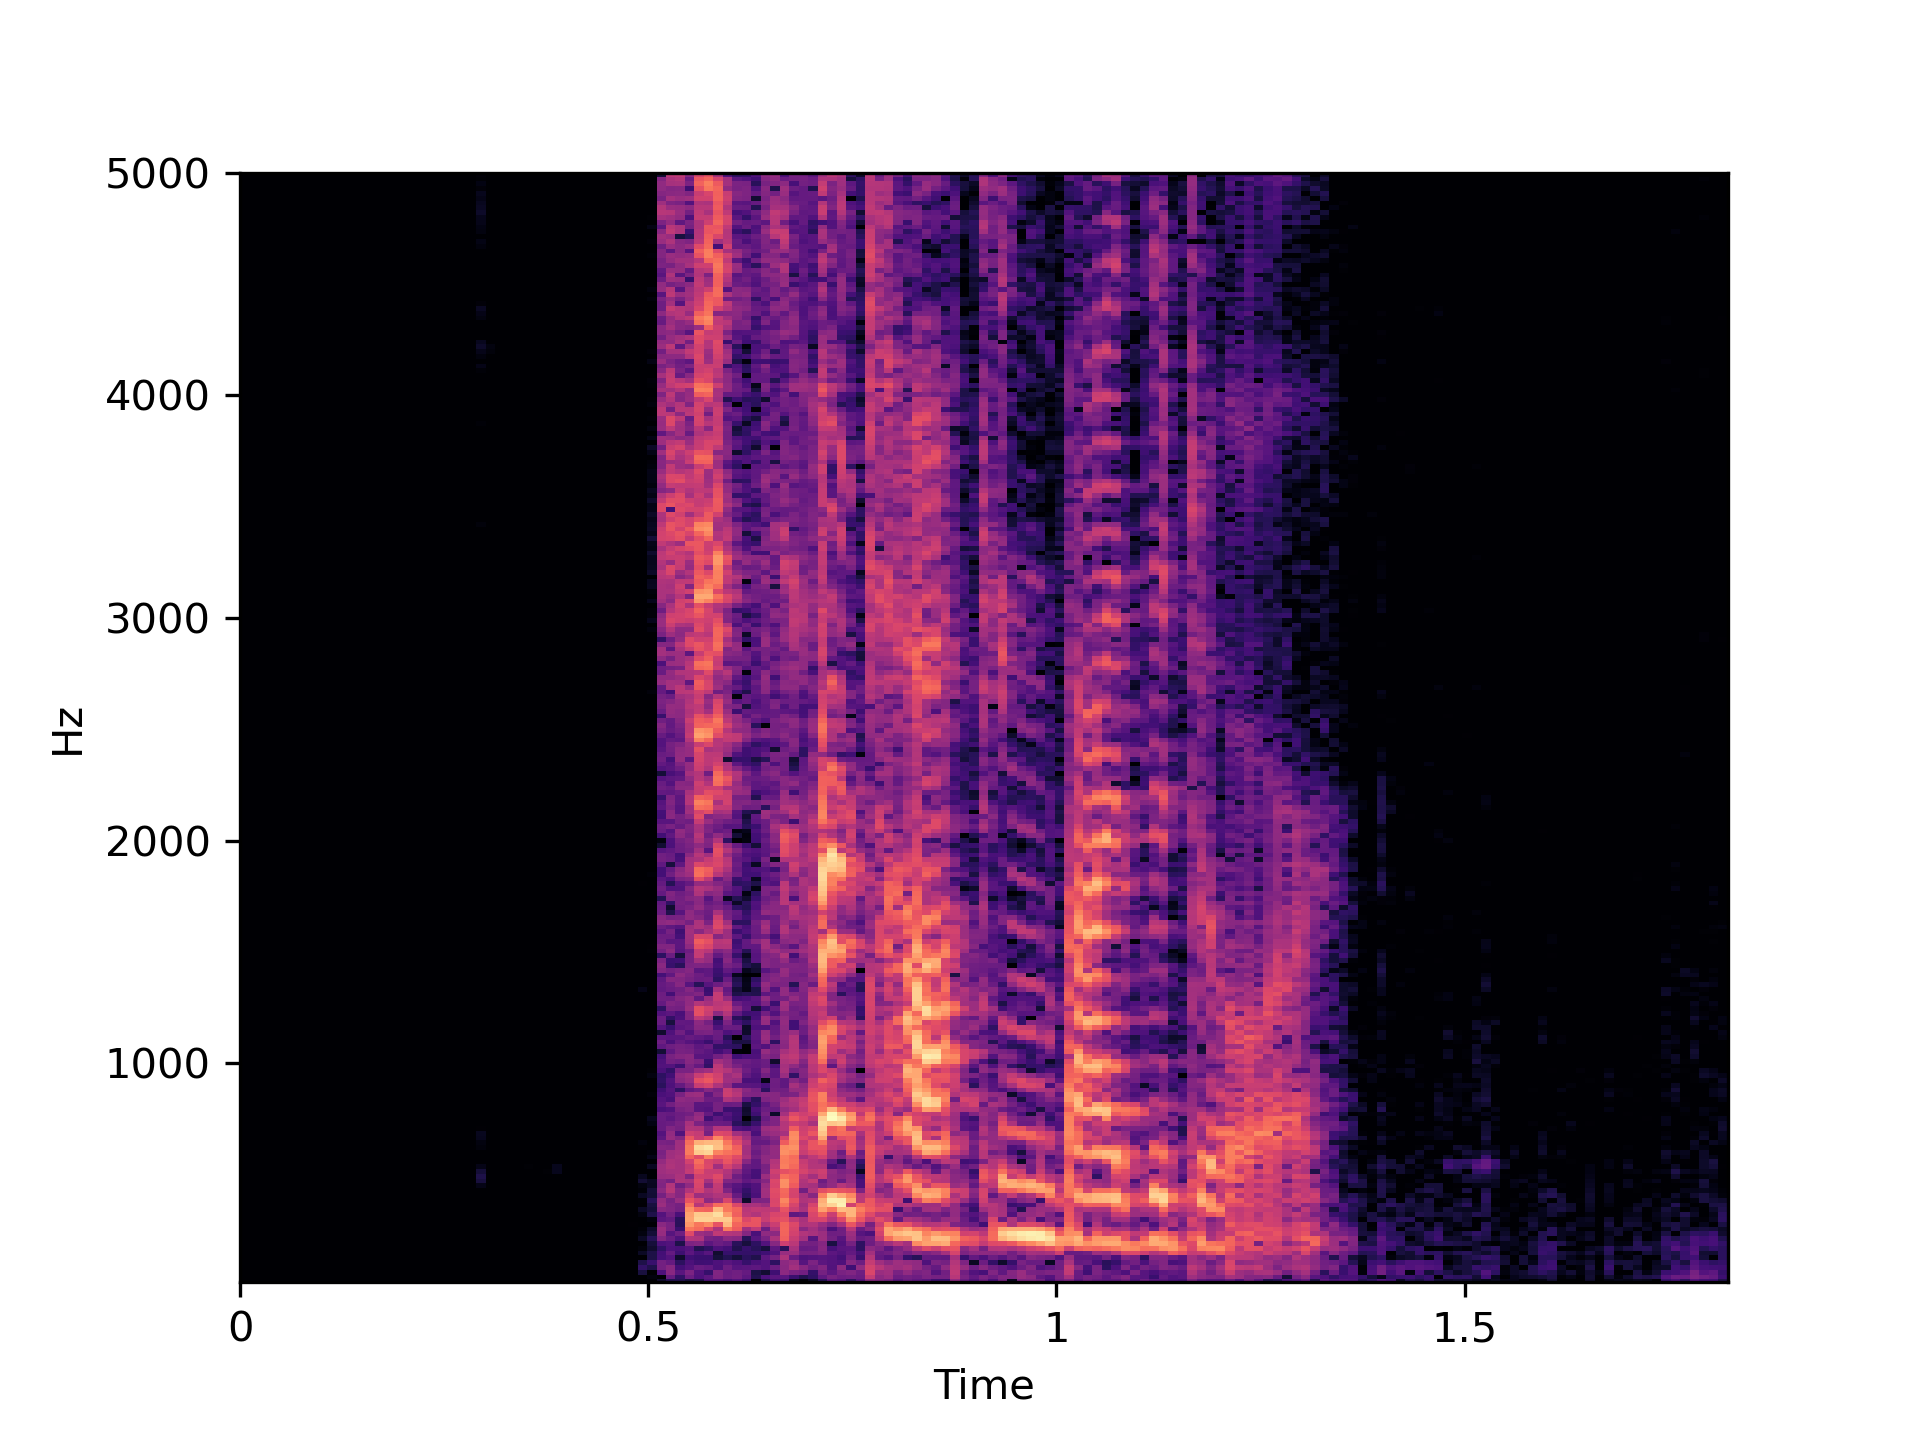
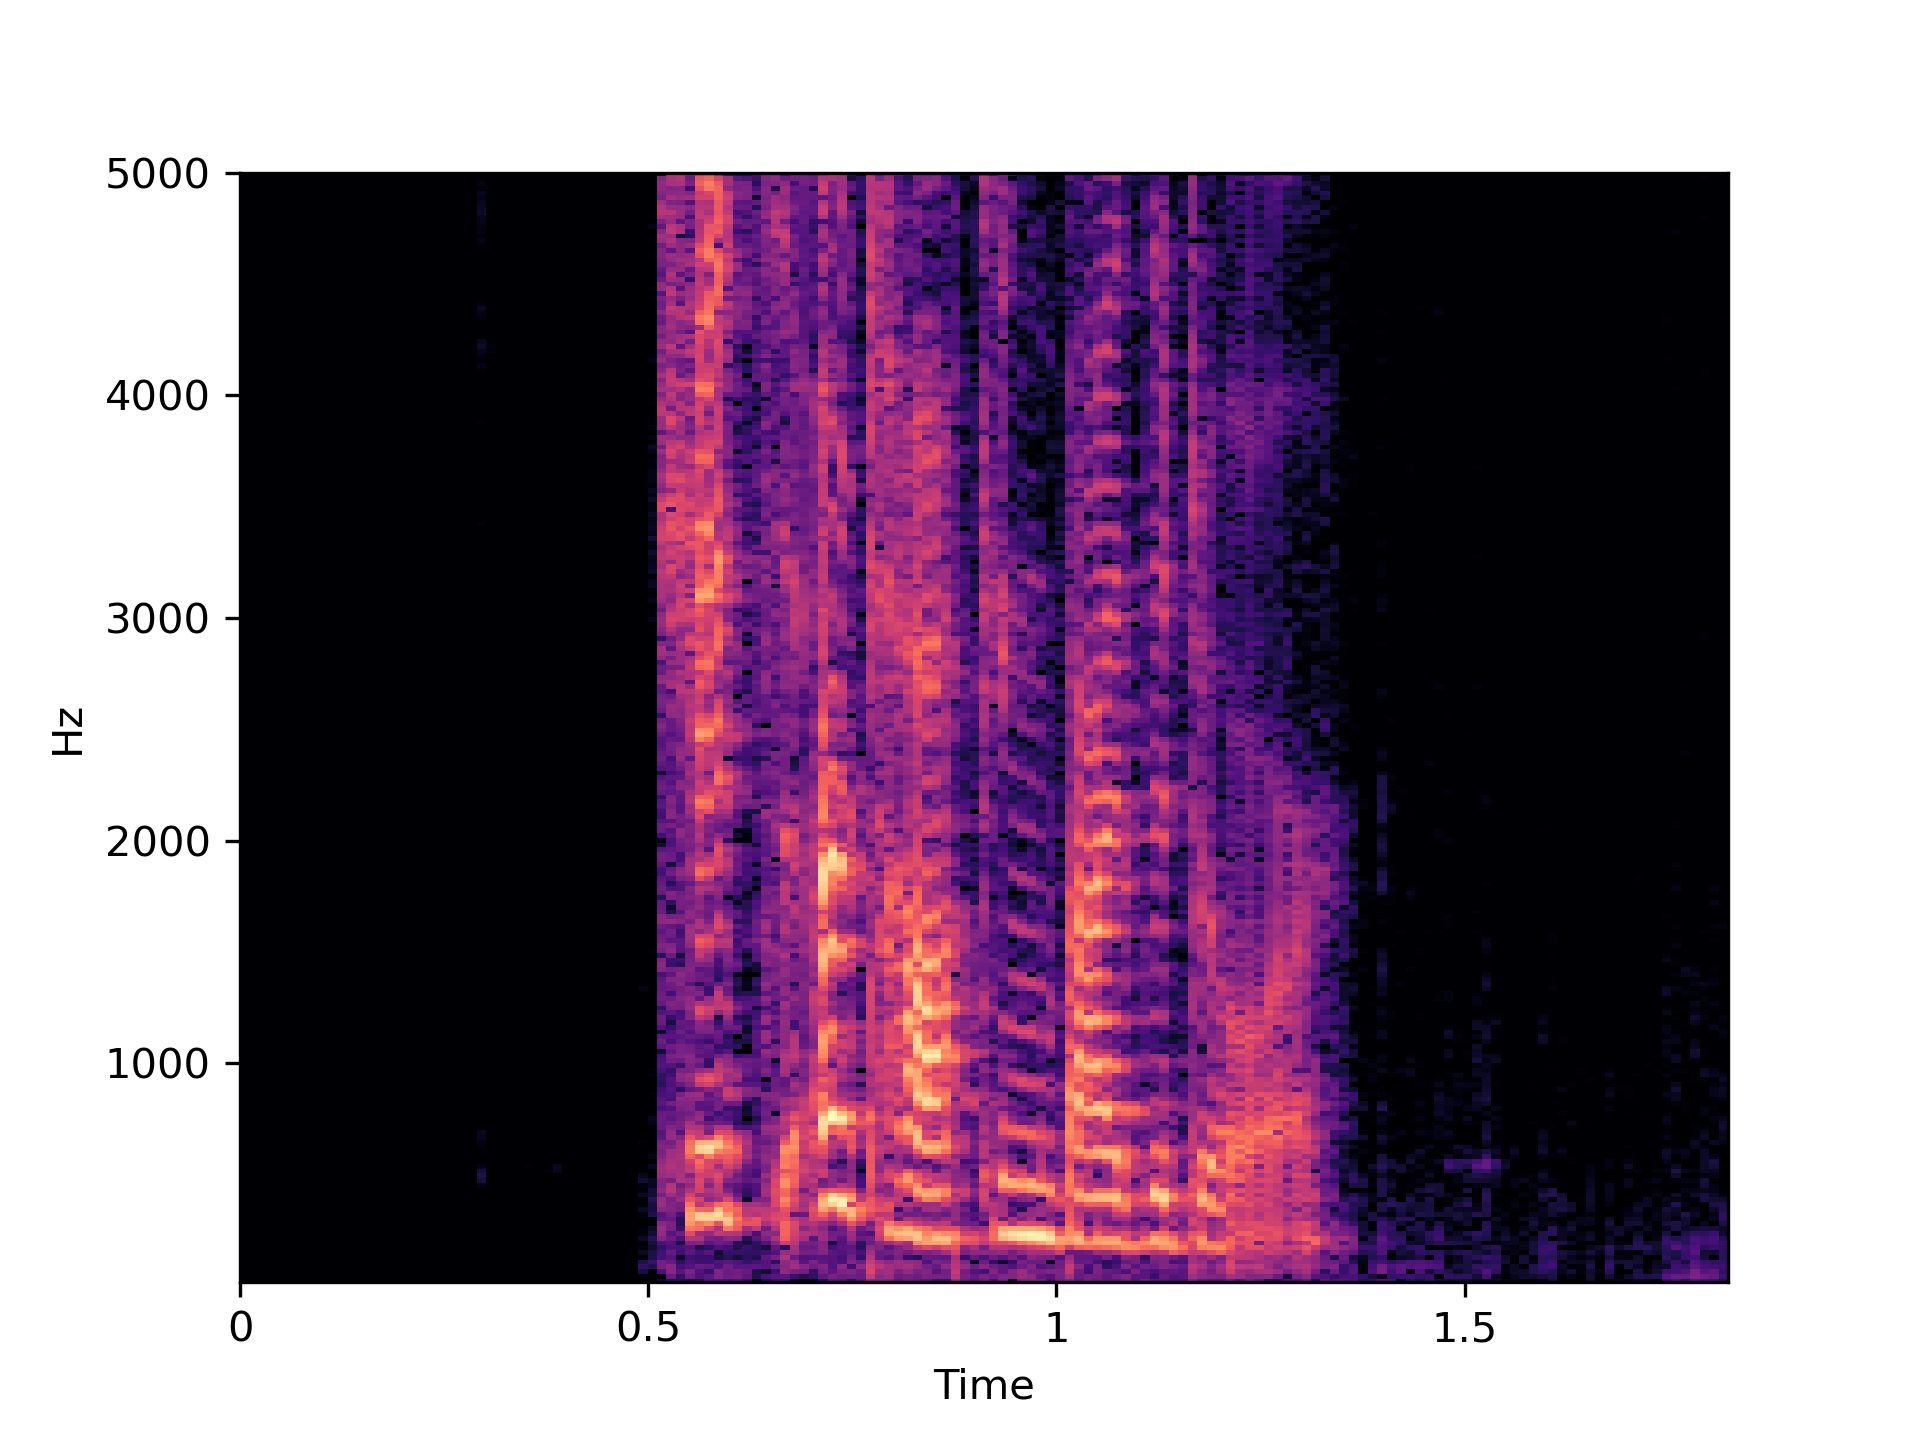
after class01

diff --git a/class01/0_variables-functions-modules/1_test_generators.py b/class01/0_variables-functions-modules/1_test_generators.py
@@ -71,7 +71,7 @@ if play_audio:
 # %% sawtooth with adsr
 
 a = au.make_adsr( a=0.01 , d=0.01, s_level=0.3 , r=0.3 , dur_secs=dur , sr=sr )
-s = au.make_sawtooth_with_adsr( freq=5000 , amp=amp , phase=0.0 , adsr=a, sr=sr )
+s = au.make_sawtooth_with_adsr( freq=freq , amp=amp , phase=0.0 , adsr=a, sr=sr )
 
 '''
 sp = np.fft.fft( s[:1024] )
